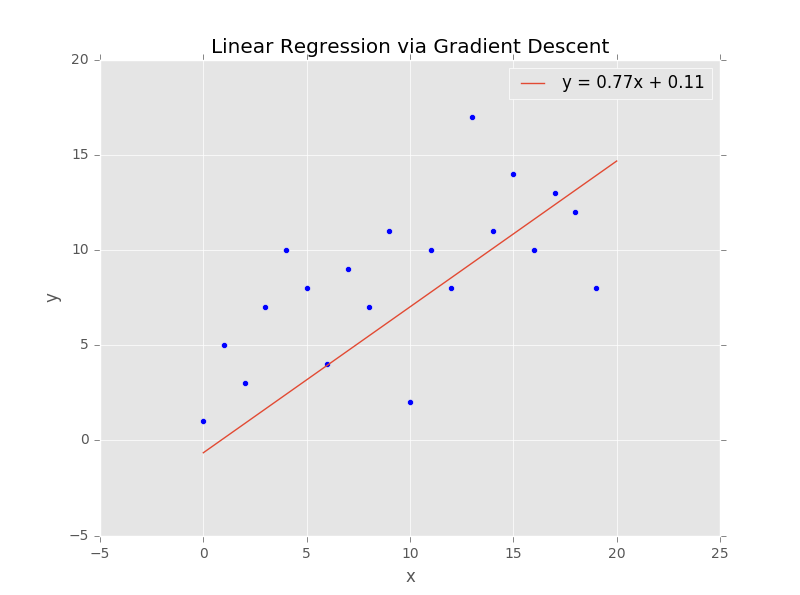
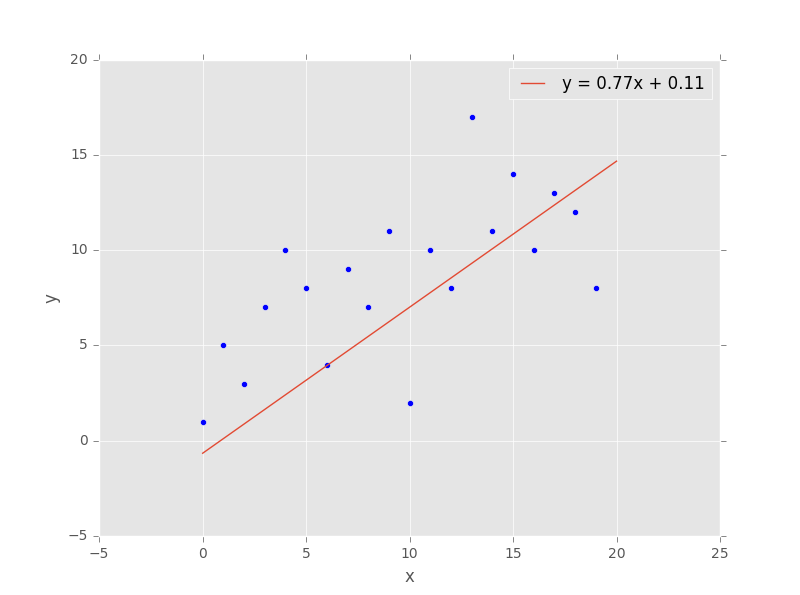
Updated figures

diff --git a/gradientDescent_LinearRegression.py b/gradientDescent_LinearRegression.py
@@ -106,18 +106,17 @@ def run():
     plt.plot(line, label = 'y = {:.2f}x + {:.2f}'.format(m, b))
     plt.scatter(x, y)
     plt.xlabel('x')
-    plt.ylabel('y')
-    plt.title('Linear Regression via Gradient Descent')
+    plt.ylabel('y')    
     plt.show()
     plt.legend()
     
     #m and b step progression
-    plt.figure(2)
+    fig = plt.figure(2)
     plt.subplot(311)    
-    plt.plot(m_steps, b_steps)
-    plt.title('Steps')
+    plt.plot(m_steps, b_steps)    
     plt.xlabel('m')
     plt.ylabel('b') 
+    fig.subplots_adjust(bottom = 0.2)    
     
     #Lines created using m and b steps throughout gradient descent procedure
     plt.subplot(312)
@@ -127,8 +126,7 @@ def run():
         plt.plot(line)
     plt.xlabel('x')
     plt.ylabel('y')
-    plt.title('Linear Regression Progression')
-
+    
     #Total squared error vs. number of iterations 
     plt.subplot(313)
     plt.plot(SE)
